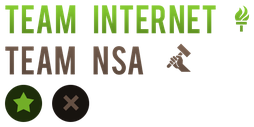
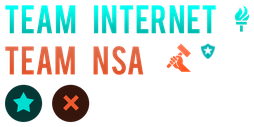
Filter by membership. Fix main tweet. Update color scheme.

diff --git a/app/javascript/bundles/main/components/ScorecardPolitical.jsx b/app/javascript/bundles/main/components/ScorecardPolitical.jsx
@@ -22,6 +22,19 @@ export default class ScorecardPolitical extends React.Component {
       },
       filtered: 'All',
       name: '',
+      membership: 'All',
+      committees: {
+        intelligence: 'Intelligence',
+        judiciary: 'Judiciary',
+        homelandsecurity: 'Homeland Security',
+        armedservices: 'Armed Services'
+      },
+      caucuses: {
+        freedomcaucus: 'Freedom Caucus',
+        congressionalblackcaucus: 'Congressional Black Caucus',
+        congressionalprogressivecaucus: 'Congressional Progressive Caucus',
+        fourthamendmentcaucus: 'Fourth Amendment Caucus'
+      },
       states: [
         'Alabama',
         'Alaska',
@@ -105,7 +118,7 @@ export default class ScorecardPolitical extends React.Component {
 
     for (const entry of entries) {
       var politician = this.processPolitician(entry);
-      if (politician.active != 'No') {
+      if (politician.active != 'No' && politician.voting != 'Yes') {
         if (politician.score > 5 ){
           politicians.good.push(politician);
         } else if (politician.score >= 0) {
@@ -124,44 +137,49 @@ export default class ScorecardPolitical extends React.Component {
     var e = (field) => { return entry['gsx$'+field]['$t'].trim(); };
 
     var politician = {
-      first_name:      e('first'),
-      last_name:       e('name'),
-      image:           e('imagepleasedontedit'),
-      bioguide:        e('bioguide'),
-      email:           e('email'),
-      phone:           e('phone'),
-      organization:    e('organization'),
-      state:           e('state'),
-      state_short:     states[e('state')],
-      twitter:         e('twitter'),
-      party:           e('partyaffiliation'),
-      vote_usaf:       e('voteusaf'),
-      vote_tempreauth: e('votetempreauth'),
-      office1:         e('office1'),
-      office1phone:    e('office1phone'),
-      office1geo:      e('office1geo'),
-      office2:         e('office2'),
-      office2phone:    e('office2phone'),
-      office2geo:      e('office2geo'),
-      office3:         e('office3'),
-      office3phone:    e('office3phone'),
-      office3geo:      e('office3geo'),
-      office4:         e('office4'),
-      office4phone:    e('office4phone'),
-      office4geo:      e('office4geo'),
-      office5:         e('office5'),
-      office5phone:    e('office5phone'),
-      office5geo:      e('office5geo'),
-      office6:         e('office6'),
-      office6phone:    e('office6phone'),
-      office6geo:      e('office6geo'),
-      office7:         e('office7'),
-      office7phone:    e('office7phone'),
-      office7geo:      e('office7geo'),
-      office8:         e('office8'),
-      office8phone:    e('office8phone'),
-      office8geo:      e('office8geo'),
-      active:          e('active'),
+      first_name:       e('first'),
+      last_name:        e('name'),
+      image:            e('imagepleasedontedit'),
+      bioguide:         e('bioguide'),
+      email:            e('email'),
+      phone:            e('phone'),
+      organization:     e('organization'),
+      state:            e('state'),
+      state_short:      states[e('state')],
+      twitter:          e('twitter'),
+      party:            e('partyaffiliation'),
+      vote_usaf:        e('voteusaf'),
+      vote_tempreauth:  e('votetempreauth'),
+      office1:          e('office1'),
+      office1phone:     e('office1phone'),
+      office1geo:       e('office1geo'),
+      office2:          e('office2'),
+      office2phone:     e('office2phone'),
+      office2geo:       e('office2geo'),
+      office3:          e('office3'),
+      office3phone:     e('office3phone'),
+      office3geo:       e('office3geo'),
+      office4:          e('office4'),
+      office4phone:     e('office4phone'),
+      office4geo:       e('office4geo'),
+      office5:          e('office5'),
+      office5phone:     e('office5phone'),
+      office5geo:       e('office5geo'),
+      office6:          e('office6'),
+      office6phone:     e('office6phone'),
+      office6geo:       e('office6geo'),
+      office7:          e('office7'),
+      office7phone:     e('office7phone'),
+      office7geo:       e('office7geo'),
+      office8:          e('office8'),
+      office8phone:     e('office8phone'),
+      office8geo:       e('office8geo'),
+      active:           e('active'),
+      voting:           e('voting'),
+      intelligence:     e('intelligence'),
+      judiciary:        e('judiciary'),
+      homelandsecurity: e('homelandsecurity'),
+      armedservices:    e('armedservices'),
 
       // scorecard fields
       fisa_courts_reform_act:                                 e('fisacourtsreformact'),
@@ -737,78 +755,19 @@ export default class ScorecardPolitical extends React.Component {
 
   filterPoliticians = (value, field) => {
     const { filtered, name, politicians } = this.state;
-    var goodFiltered, neutralFiltered, badFiltered, filteredValue, nameValue;
+    var goodFiltered, neutralFiltered, badFiltered;
 
-    if ( field == 'view' ) {
-      filteredValue = value;
-      nameValue = name;
-    } else {
-      filteredValue = filtered;
-      nameValue = value.toLowerCase();
-    }
-
-    if (filteredValue == 'All') {
-      if (nameValue == '') {
-        goodFiltered = politicians.good;
-        neutralFiltered = politicians.neutral;
-        badFiltered = politicians.bad;
-      } else {
-        goodFiltered = politicians.good.filter(politician => (
-          politician.first_name.toLowerCase().includes(nameValue) ||
-          politician.last_name.toLowerCase().includes(nameValue)
-        ));
-        neutralFiltered = politicians.neutral.filter(politician => (
-          politician.first_name.toLowerCase().includes(nameValue) ||
-          politician.last_name.toLowerCase().includes(nameValue)
-        ));
-        badFiltered = politicians.bad.filter(politician => (
-          politician.first_name.toLowerCase().includes(nameValue) ||
-          politician.last_name.toLowerCase().includes(nameValue)
-        ));
-      }
-    } else if (filteredValue == 'House' || filteredValue == 'Senate') {
-      goodFiltered = politicians.good.filter(politician => (
-        politician.organization == filteredValue && (
-          politician.first_name.toLowerCase().includes(nameValue) ||
-          politician.last_name.toLowerCase().includes(nameValue)
-        )
-      ));
-      neutralFiltered = politicians.neutral.filter(politician => (
-        politician.organization == filteredValue && (
-          politician.first_name.toLowerCase().includes(nameValue) ||
-          politician.last_name.toLowerCase().includes(nameValue)
-        )
-      ));
-      badFiltered = politicians.bad.filter(politician => (
-        politician.organization == filteredValue && (
-          politician.first_name.toLowerCase().includes(nameValue) ||
-          politician.last_name.toLowerCase().includes(nameValue)
-        )
-      ));
-    } else {
-      goodFiltered = politicians.good.filter(politician => (
-        politician.state == filteredValue && (
-          politician.first_name.toLowerCase().includes(nameValue) ||
-          politician.last_name.toLowerCase().includes(nameValue)
-        )
-      ));
-      neutralFiltered = politicians.neutral.filter(politician => (
-        politician.state == filteredValue && (
-          politician.first_name.toLowerCase().includes(nameValue) ||
-          politician.last_name.toLowerCase().includes(nameValue)
-        )
-      ));
-      badFiltered = politicians.bad.filter(politician => (
-        politician.state == filteredValue && (
-          politician.first_name.toLowerCase().includes(nameValue) ||
-          politician.last_name.toLowerCase().includes(nameValue)
-        )
-      ));
-    }
+    goodFiltered = politicians.good.filter(politician => (
+      this.matchPolitician(politician, value, field)
+    ));
+    neutralFiltered = politicians.neutral.filter(politician => (
+      this.matchPolitician(politician, value, field)
+    ));
+    badFiltered = politicians.bad.filter(politician => (
+      this.matchPolitician(politician, value, field)
+    ));
 
     this.setState({
-      filtered: filteredValue,
-      name: nameValue,
       good: 16 < goodFiltered.length ? 16 : goodFiltered.length,
       bad: 16 < badFiltered.length ? 16 : badFiltered.length,
       neutral: 19 < neutralFiltered.length ? 19 : neutralFiltered.length,
@@ -818,6 +777,42 @@ export default class ScorecardPolitical extends React.Component {
     });
   }
 
+  matchPolitician = (politician, value, field) => {
+    const { filtered, name, membership } = this.state;
+    var filteredValue, nameValue, membershipValue;
+
+    if ( field == 'view' ) {
+      filteredValue = value;
+      nameValue = name;
+      membershipValue = membership;
+      this.setState({filtered: value});
+    } else if (field == 'membership') {
+      filteredValue = filtered;
+      nameValue = name;
+      membershipValue = value;
+      this.setState({membershipValue: value});
+    } else {
+      filteredValue = filtered;
+      nameValue = value.toLowerCase();
+      membershipValue = membership;
+      this.setState({name: value});
+    }
+
+    return (
+      (
+        filteredValue == 'All' ||
+        politician.organization == filteredValue ||
+        politician.state == filteredValue
+      ) && (
+        politician.first_name.toLowerCase().includes(nameValue) ||
+        politician.last_name.toLowerCase().includes(nameValue)
+      ) && (
+        membershipValue == 'All' ||
+        politician[membershipValue] == 'Yes'
+      )
+    );
+  }
+
   render() {
     const {
       expanded,
@@ -825,6 +820,8 @@ export default class ScorecardPolitical extends React.Component {
       neutral,
       bad,
       states,
+      committees,
+      caucuses,
       filtered,
       name,
       goodFiltered,
@@ -843,19 +840,37 @@ export default class ScorecardPolitical extends React.Component {
           <a href="#our-scoring-system">Learn about our scoring system. </a>
         </p>
         <div id="scoreboard_data">
-          <label>Choose View:</label>
-          <select onChange={e => this.filterPoliticians(e.target.value, 'view')}>
-            <optgroup label="View by Chamber">
-              <option value="All">All Congress</option>
-              <option value="Senate">Senate</option>
-              <option value="House">House</option>
-            </optgroup>
-            <optgroup label="View by state">
-              { states.map(value => (
-                <option key={value} value={value}>{value}</option>
-              ))}
-            </optgroup>
-          </select>
+          <div>
+            <label>Choose View:</label>
+            <select onChange={e => this.filterPoliticians(e.target.value, 'view')}>
+              <optgroup label="View by Chamber">
+                <option value="All">All Congress</option>
+                <option value="Senate">Senate</option>
+                <option value="House">House</option>
+              </optgroup>
+              <optgroup label="View by state">
+                { states.map(value => (
+                  <option key={value} value={value}>{value}</option>
+                ))}
+              </optgroup>
+            </select>
+          </div>
+          <div style={{marginTop: '15px'}}>
+            <label>Choose Membership:</label>
+            <select className='membership' onChange={e => this.filterPoliticians(e.target.value, 'membership')}>
+              <option value='All'>All Members</option>
+              <optgroup label="View by Committee">
+                { Object.keys(committees).map(key => (
+                  <option key={key} value={key}>{committees[key]}</option>
+                )) }
+              </optgroup>
+              <optgroup label="View by Caucus">
+                { Object.keys(caucuses).map(key => (
+                  <option key={key} value={key}>{caucuses[key]}</option>
+                )) }
+              </optgroup>
+            </select>
+          </div>
           <div style={{marginTop: '15px'}}>
             <label>Search by Name:</label>
             <input

diff --git a/app/assets/stylesheets/scoreboard.scss b/app/assets/stylesheets/scoreboard.scss
@@ -10,7 +10,13 @@
 
 .scoreboard select {
     font-size: 2.08rem;
-    margin: 0 25px 0 5px;
+    margin: 10px 25px 0 5px;
+}
+
+@media screen and (min-width: 575px) {
+    .scoreboard .membership {
+        margin-top: 0px;
+    }
 }
 
 .scoreboard input {

diff --git a/app/assets/stylesheets/home.scss b/app/assets/stylesheets/home.scss
@@ -1,7 +1,7 @@
-$bad: #6b5547;
-$good: #55821e;
-$neutral: #8a381c;
-$title: #3e4226;
+$bad: #e05730;
+$good: #07bbb0;
+$neutral: #6b5547;
+$title: #2f3a42;
 $light: #FFF;
 $text: #272727;
 
